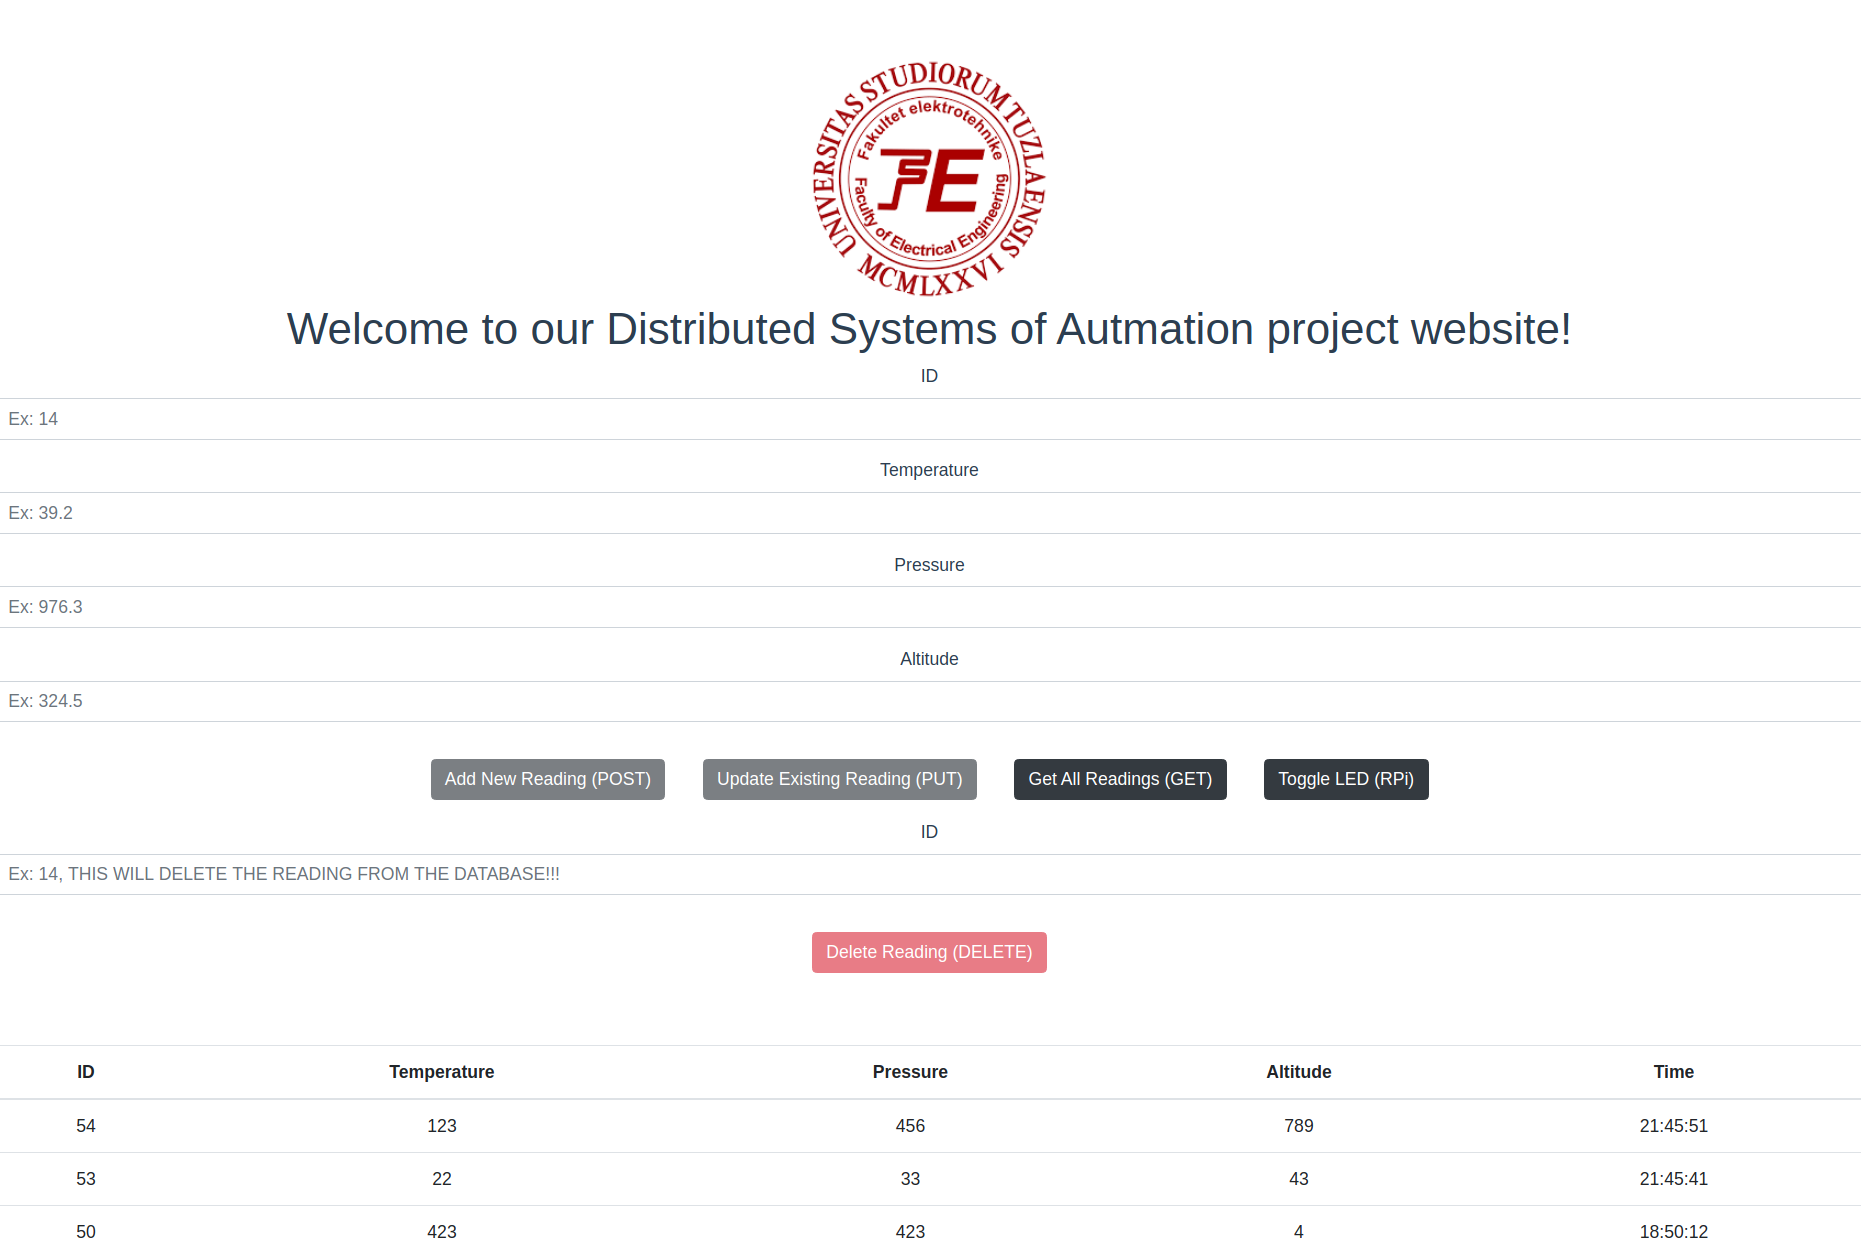
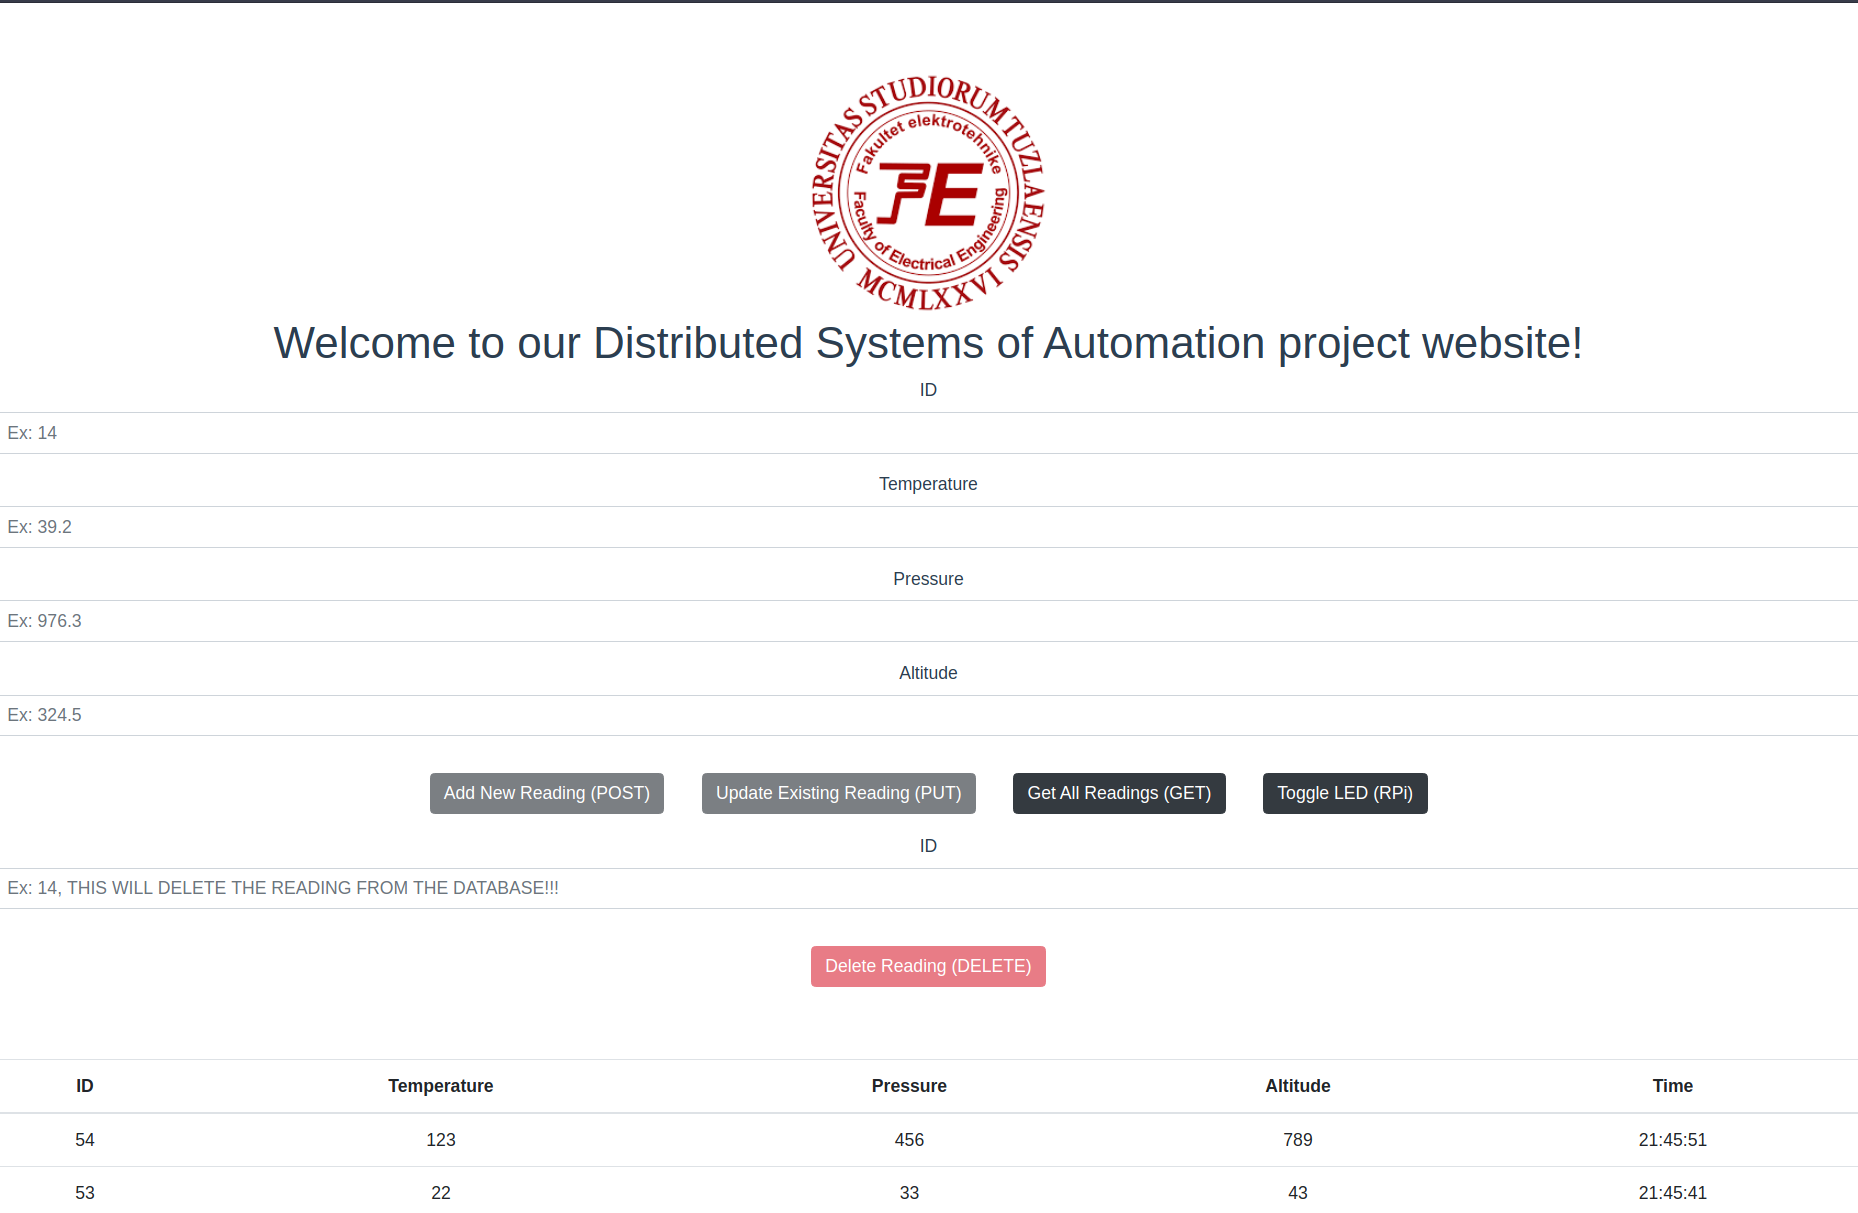
- Fixed typo

diff --git a/raspberry-pi-weather-station/src/App.vue b/raspberry-pi-weather-station/src/App.vue
@@ -1,7 +1,7 @@
 <template>
 <div>
   <img alt="Vue logo" src="./assets/logo.png">
-  <Main msg="Welcome to our Distributed Systems of Autmation project website!"/>
+  <Main msg="Welcome to our Distributed Systems of Automation project website!"/>
 </div>
 </template>
 
